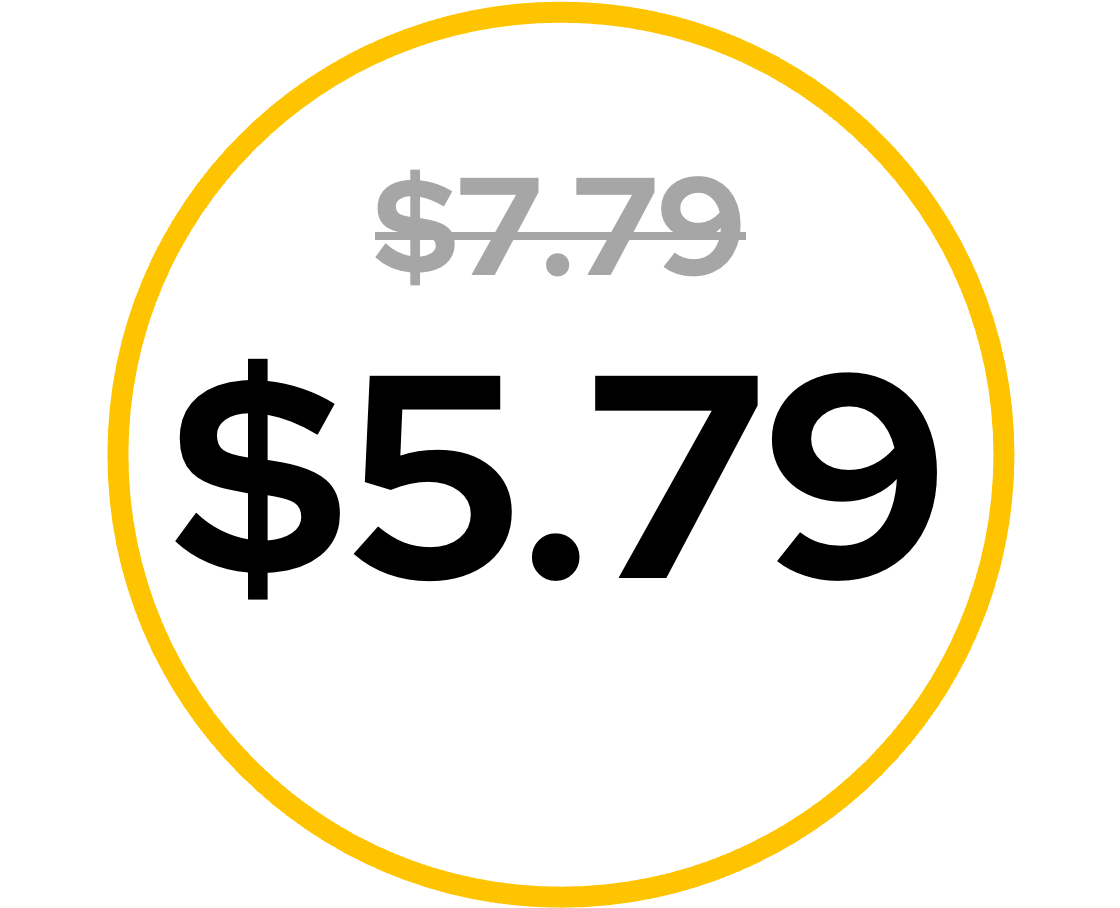
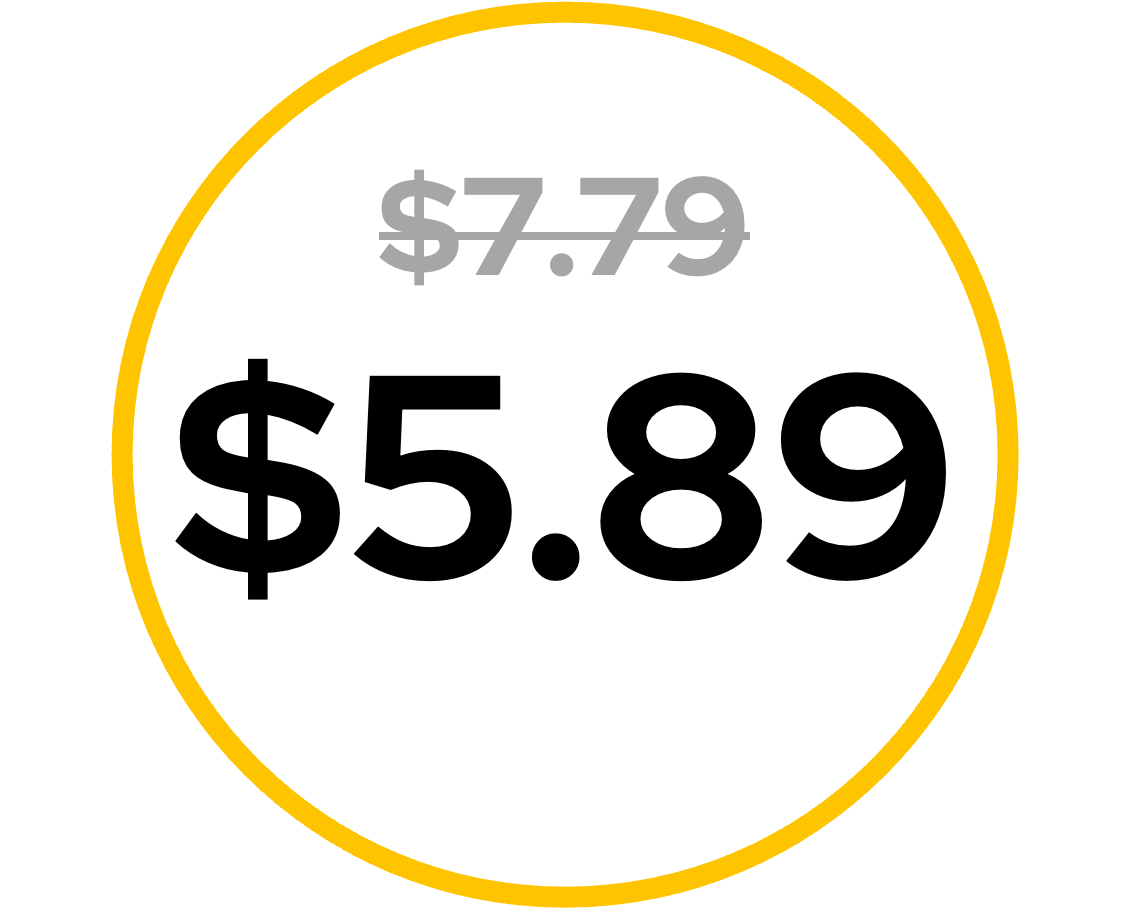
aggiornati prezzi e recensioni

diff --git a/index.html b/index.html
@@ -84,7 +84,7 @@ function gtag_report_conversion(url) {
       <h3>750 Games for Scorekeeping</h3>
       <div class="bs__reviews">
         <img loading="lazy" class="bs__stars" src="imgvid/stars.webp" alt="amazon reviews"></img>
-        <h4 class="bs__numbers text6">+ 4,700 reviews</h4></div>
+        <h4 class="bs__numbers text6">+ 4,800 reviews</h4></div>
         <div class="bs__img" alt="yahtzee score sheets"></div>
     </div>
     <div class="bs__list">
@@ -116,7 +116,7 @@ function gtag_report_conversion(url) {
         <div class="talk-text"><h3><b>M. L. Trevor (Amazon.com)</b><br>"One of my favorite games! The only problem is that you often run out of score sheets. Luckily I found how to solve, now with 125 score sheets for a few weeks I'm done. The page setup is excellent and I'm having a great time. I recommend it to all game lovers!"</h3></div></div>
       <div id="rev5" class="talk-bubble-right tri-right border right-top">
         <div class="talk-text"><h3><b>Mary Borges-Silva (Amazon.com)</b><br>"The print is a bit larger than my original game! I love it! Easy to see and keep score!"</h3></div></div>
-      <h4><c class="text7">Check the 4,700+ reviews on Amazon.com!</c></h4>
+      <h4><c class="text7">Check the 4,800+ reviews on Amazon.com!</c></h4>
     </div>
   </div>
 </div>
@@ -131,7 +131,7 @@ function gtag_report_conversion(url) {
     <div class="carouselbottom">
       <div class="carouselprice">
         <div class="highprice text8">$7.79</div>
-        <div class="lowprice text5">$5.79</div></div>
+        <div class="lowprice text5">$5.89</div></div>
       <a class="carouselbuy text7" href="https://www.amazon.com/gp/product/B08924DGQ8/">Buy it on Amazon</a></div>
   </div>
   <div class="carousel-cell text6">Yahtzee Score Pads 7x10"
@@ -142,7 +142,7 @@ function gtag_report_conversion(url) {
     <div class="carouselbottom">
       <div class="carouselprice">
         <div class="highprice text8">$7.79</div>
-        <div class="lowprice text5">$5.79</div></div>
+        <div class="lowprice text5">$5.89</div></div>
       <a class="carouselbuy text7" href="https://www.amazon.com/gp/product/B089M2DH8G/">Buy it on Amazon</a></div>
   </div>
   <div class="carousel-cell text6">Yahtzee Score Pads 8.5x11"
@@ -153,7 +153,7 @@ function gtag_report_conversion(url) {
     <div class="carouselbottom">
       <div class="carouselprice">
         <div class="highprice text8">$7.79</div>
-        <div class="lowprice text5">$5.79</div></div>
+        <div class="lowprice text5">$5.89</div></div>
       <a class="carouselbuy text7" href="https://www.amazon.com/gp/product/B086MM2JRF/">Buy it on Amazon</a></div>
   </div>
   <div class="carousel-cell text6">Coloring books

diff --git a/products.html b/products.html
@@ -56,13 +56,13 @@
         <h2 class="prod__title text4">Yahtzee Score Pads 6x9" - 750 Games for Scorekeeping</h2>
         <div class="prod__reviews">
           <img class="prod__stars" src="imgvid/stars.webp"></img>
-          <h4 class="prod__numbers text6">+ 4,700 reviews</h4>
+          <h4 class="prod__numbers text6">+ 4,800 reviews</h4>
         </div>
       </div>
       <div class="prod__pricebutton">
         <div class="prod__price">
           <div class="highprice text6">$7.79</div>
-          <div class="lowprice text3">$5.79</div>
+          <div class="lowprice text3">$5.89</div>
         </div>
         <div class="prod__buttonarea">
           <div class="prod__available text8">Available now</div>
@@ -97,7 +97,7 @@
       <div class="prod__pricebutton">
         <div class="prod__price">
           <div class="highprice text6">$7.79</div>
-          <div class="lowprice text3">$5.79</div>
+          <div class="lowprice text3">$5.89</div>
         </div>
         <div class="prod__buttonarea">
           <div class="prod__available text8">Available now</div>
@@ -131,7 +131,7 @@
       <div class="prod__pricebutton">
         <div class="prod__price">
           <div class="highprice text6">$7.79</div>
-          <div class="lowprice text3">$5.79</div>
+          <div class="lowprice text3">$5.89</div>
         </div>
         <div class="prod__buttonarea">
           <div class="prod__available text8">Available now</div>
@@ -166,7 +166,7 @@
       <div class="prod__pricebutton">
         <div class="prod__price">
           <div class="highprice text6">$7.79</div>
-          <div class="lowprice text3">$5.79</div>
+          <div class="lowprice text3">$5.89</div>
         </div>
         <div class="prod__buttonarea">
           <div class="prod__available text8">Available now</div>
